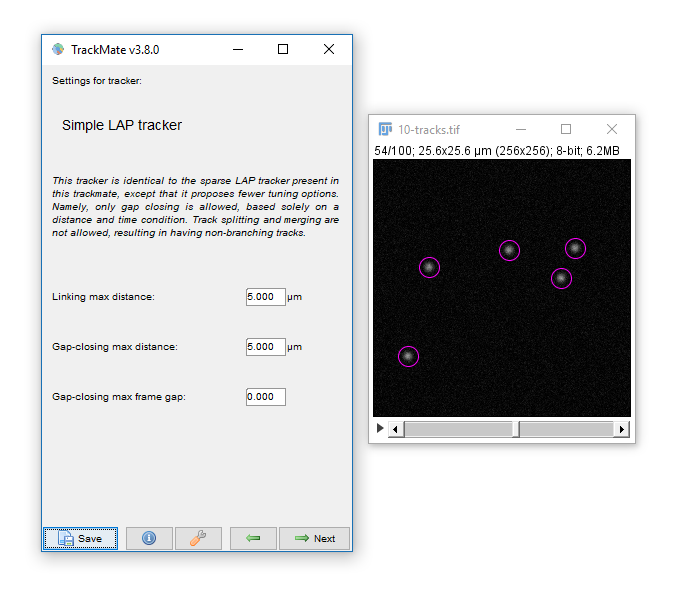
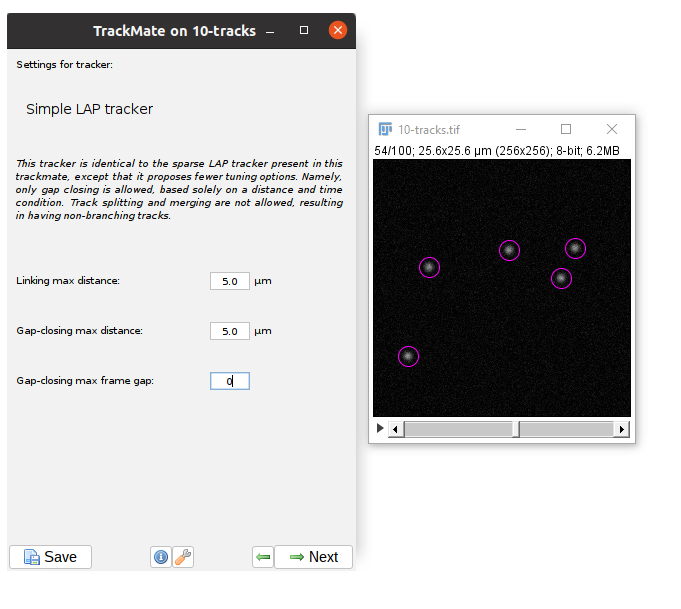
update trackmate figures

diff --git a/W4.html b/W4.html
@@ -162,7 +162,7 @@ document.getElementsByTagName( 'head' )[0].appendChild( link );
 <img class="left half" src="img-ia/trackmate_05.png"/>
 <ul class="half right">
 <li>Hit next, accepting defaults until you reach 'Settings for Simple LAP tracker'</li>
-<li>Keep the defaults and hit Next</li>
+<li>Set the distances to 5 and hit Next</li>
 <li>You have tracks!</li>
 </ul>
 </section>
@@ -181,7 +181,7 @@ document.getElementsByTagName( 'head' )[0].appendChild( link );
 <p>Common outputs from Trackmate: (1) Tracking data</p>
 <img class="left half" src="img-ia/trackmate_06.png"/>
 <img class="right half" src="img-ia/trackmate_08.png"/>
-<p>In newer versions of trackmake the 'Analysis' button has been split into 'Tracks' and 'Spots'.</p>
+<p>Click 'Tracks' or 'Spots' to view the analysis.</p>
 </section>
 <section data-state="apps2"><style>.apps2 header:after { content: "Tracking: Hands On"; }</style>
 <p>Common outputs from Trackmate: (2) Movies!</p>
